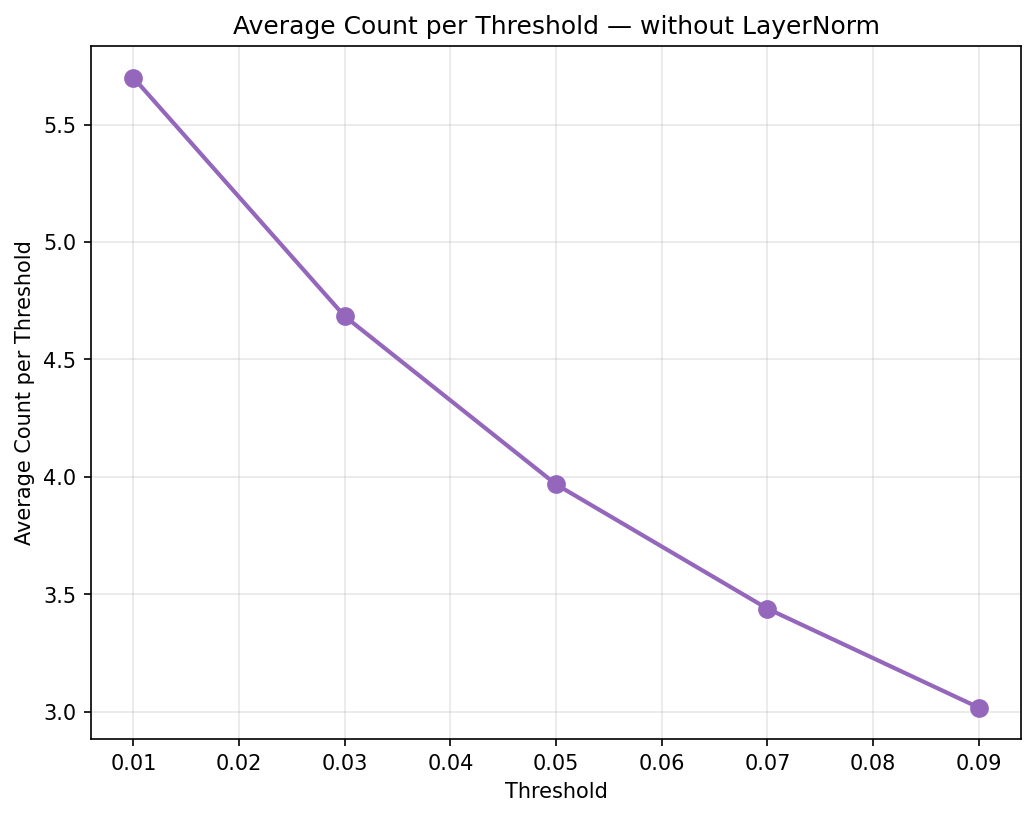
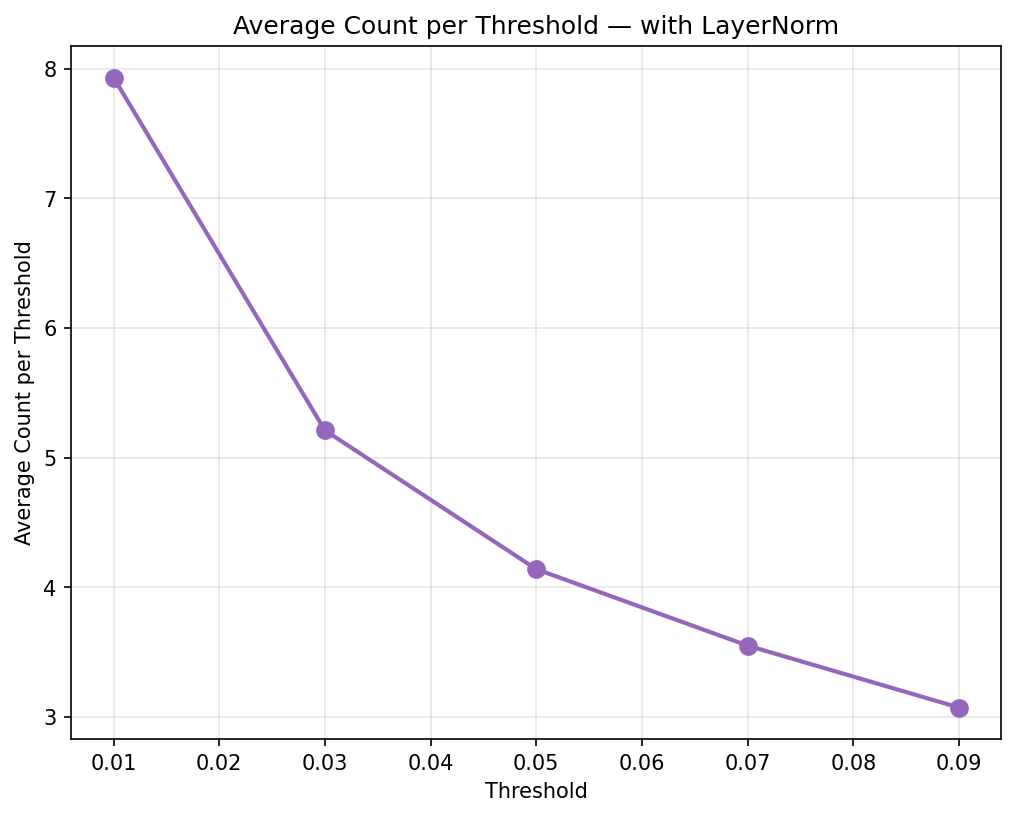
sdf

diff --git a/next_num_statistics.py b/next_num_statistics.py
@@ -1,26 +1,19 @@
-from model_tbyt_3 import GPT, GPTConfig
+from model_nathan import GPT, GPTConfig
 import torch
 import os
 import numpy as np
-#block_size = 8
-#vocab_size = 128
 block_size = 32
 vocab_size = 128
-instance_num = 1
 device = 'cuda'
-# Note: checkpoint was trained without positional embeddings (without_pos=True)
-config = GPTConfig(block_size=block_size, vocab_size=vocab_size, without_pos=True)
-model = GPT(config)
-#model_state_dict = torch.load(os.path.join(os.getcwd(), f'saved_models/tbyt_1head_2_itr:{itr_num}_checkpoint_old.pt'), map_location=device)['model']
-
-#model_state_dict = torch.load(os.path.join(os.getcwd(), f'saved_models/dec28_tbyt_without-pos-embedding_n_embd:64_1head_layers:2_vocab_size:128_itr:60000_checkpoint.pt'), map_location=device)['model']
-
-#model_state_dict = torch.load('./saved_models/tbyt_b64_v2048_embd16_1head_2_itr:20000_checkpoint.pt', map_location=device)['model']
 wlnorm = 'without'
-checkpoint_dirs = {'without': '2026-03-14_18-40-26_vocab128', 'with': '2026-03-14_19-03-50_vocab128'}
-model_state_dict = torch.load(f'./saved_models/{checkpoint_dirs[wlnorm]}/march14-{wlnorm}layernorm-block_size:32-batch_size:4096-n_embd:64_head:1_layers:2_vocab_size:128_itr:80000_checkpoint.pt', map_location=device)['model']
-model.load_state_dict(model_state_dict)
+nathan_checkpoints = {'without': 'sortgpt_k32_methfixed_mlp1_L2_N128_E64_pos0_fln0_wd0p0_seed1337__final.pt',
+                      'with': 'sortgpt_k32_methfixed_mlp1_L2_N128_E64_pos0_fln1_wd0p0_seed1337__final.pt'}
+checkpoint = torch.load(f'./saved_models/nathanmodels/{nathan_checkpoints[wlnorm]}', map_location=device, weights_only=False)
+config = GPTConfig(**checkpoint['model_config'])
+model = GPT(config)
+model.load_state_dict(checkpoint['model_state_dict'])
 model.to(device=device)
+model.eval()
 
 def get_batch(batch_size=1):
    def cat_sorted_tensor(x):
@@ -46,6 +39,7 @@ def get_statistics(thresholds, threshold_index):
     
     average_dist_perlocation = np.array([0.0 for i in range(block_size)])
     max_dist_perlocation = np.array([0.0 for i in range(block_size)])
+    random_prev_dist_perlocation = np.array([0.0 for i in range(block_size)])
     max_dist_perthreshold = []
     average_dist_perthreshold = []
     for t, threshold in enumerate(thresholds):
@@ -74,7 +68,7 @@ def get_statistics(thresholds, threshold_index):
             dist = 0.0
             num_dist = 0
             for k in range(0, 2*block_size + 1):
-                score = model.transformer.h[0].c_attn.attn[j,k].item()
+                score = model.transformer.h[0].attn.stored_attn[j,k].item()
                 if score >= threshold:
                     tmp_count_perlocation[j-block_size] += 1
                     dist = abs(idx[0,k] - idx[0,j + 1]).item()
@@ -90,7 +84,8 @@ def get_statistics(thresholds, threshold_index):
                     max_score_num = idx[0,k].item()
                     #print('max_score_num is ', max_score_num)
             average_max_dist += max_dist
-            average_temp_dist /= num_dist
+            if num_dist > 0:
+                average_temp_dist /= num_dist
             average_dist += average_temp_dist
             #print('max_score_num is ', max_score_num, ' idx[0,j + 1].item() is ', idx[0,j + 1].item())
             is_largest_score_correct[j-block_size] = (max_score_num == idx[0,j + 1].item())    
@@ -99,6 +94,9 @@ def get_statistics(thresholds, threshold_index):
                 count_perlocation[j-block_size] = tmp_count_perlocation[j-block_size]
                 average_dist_perlocation[j-block_size] = average_temp_dist
                 max_dist_perlocation[j-block_size] = max_dist
+                import random
+                rand_k = random.randint(0, j - 1)
+                random_prev_dist_perlocation[j-block_size] = abs(idx[0, rand_k].item() - idx[0, j + 1].item())
 
             if is_correct[j-block_size] == 1.0 and is_largest_score_correct[j-block_size] == True:
                 if t == threshold_index:
@@ -120,7 +118,7 @@ def get_statistics(thresholds, threshold_index):
             print(f'candidates for position {j} with number {idx[0,j].item()} and is_correct {is_correct[j-block_size] == 1.0} are {candidates[j-block_size]} \n \
                     is_largest_score_correct is {is_largest_score_correct[j-block_size]}\n')    
             if is_largest_score_correct[j-block_size] == False:
-                print(f'scores for position {j} are {[(num, model.transformer.h[0].c_attn.attn[j,k].item()) for k, num in candidates[j-block_size]]}\n\n\n')
+                print(f'scores for position {j} are {[(num, model.transformer.h[0].attn.stored_attn[j,k].item()) for k, num in candidates[j-block_size]]}\n\n\n')
 
         count_perthreshold.append(np.mean(tmp_count_perlocation))
 
@@ -140,7 +138,7 @@ def get_statistics(thresholds, threshold_index):
     iclogit_icscore_perthreshold = np.array(iclogit_icscore_perthreshold)
     average_dist_perthreshold = np.array(average_dist_perthreshold)
     max_dist_perthreshold = np.array(max_dist_perthreshold)
-    return count_perlocation, count_perthreshold, (clogit_cscore_perlocation, clogit_icscore_perlocation, iclogit_cscore_perlocation, iclogit_icscore_perlocation), (clogit_cscore_perthreshold, clogit_icscore_perthreshold, iclogit_cscore_perthreshold, iclogit_icscore_perthreshold), (average_dist_perlocation, max_dist_perlocation), (average_dist_perthreshold, max_dist_perthreshold)
+    return count_perlocation, count_perthreshold, (clogit_cscore_perlocation, clogit_icscore_perlocation, iclogit_cscore_perlocation, iclogit_icscore_perlocation), (clogit_cscore_perthreshold, clogit_icscore_perthreshold, iclogit_cscore_perthreshold, iclogit_icscore_perthreshold), (average_dist_perlocation, max_dist_perlocation, random_prev_dist_perlocation), (average_dist_perthreshold, max_dist_perthreshold)
 
 
 thresholds = [0.01, 0.03, 0.05, 0.07, 0.09]
@@ -156,12 +154,15 @@ ave_clogit_cscore_perlocation = np.zeros(block_size)
 ave_iclogit_cscore_perlocation = np.zeros(block_size)
 ave_clogit_icscore_perlocation = np.zeros(block_size)
 ave_iclogit_icscore_perlocation = np.zeros(block_size)
+ave_average_dist_perlocation = np.zeros(block_size)
+ave_max_dist_perlocation = np.zeros(block_size)
+ave_random_prev_dist_perlocation = np.zeros(block_size)
 for counter in range(num_tries):
     count_perlocation, count_perthreshold, lsperlocation, lsperthreshold, am_perlocation, am_perthreshold = get_statistics(thresholds, threshold_index)
     clogit_cscore_perthreshold, clogit_icscore_perthreshold, iclogit_cscore_perthreshold, iclogit_icscore_perthreshold = lsperthreshold
     average_dist_perthreshold, max_dist_perthreshold = am_perthreshold
     clogit_cscore_perlocation, clogit_icscore_perlocation, iclogit_cscore_perlocation, iclogit_icscore_perlocation = lsperlocation
-    average_dist_perlocation, max_dist_perlocation = am_perlocation
+    average_dist_perlocation, max_dist_perlocation, random_prev_dist_perlocation = am_perlocation
     
     ave_clogit_cscore_perthreshold += clogit_cscore_perthreshold
     ave_iclogit_cscore_perthreshold += iclogit_cscore_perthreshold
@@ -173,6 +174,9 @@ for counter in range(num_tries):
     ave_iclogit_cscore_perlocation += iclogit_cscore_perlocation
     ave_clogit_icscore_perlocation += clogit_icscore_perlocation
     ave_iclogit_icscore_perlocation += iclogit_icscore_perlocation
+    ave_average_dist_perlocation += average_dist_perlocation
+    ave_max_dist_perlocation += max_dist_perlocation
+    ave_random_prev_dist_perlocation += random_prev_dist_perlocation
 
 ave_clogit_cscore_perthreshold /= num_tries
 ave_iclogit_cscore_perthreshold /= num_tries
@@ -184,6 +188,9 @@ ave_clogit_cscore_perlocation /= num_tries
 ave_iclogit_cscore_perlocation /= num_tries
 ave_clogit_icscore_perlocation /= num_tries
 ave_iclogit_icscore_perlocation /= num_tries
+ave_average_dist_perlocation /= num_tries
+ave_max_dist_perlocation /= num_tries
+ave_random_prev_dist_perlocation /= num_tries
 
 # Save data to file for later comparison
 data_file = f'plots_{wlnorm}layernorm/statistics_data.npz'
@@ -199,7 +206,10 @@ np.savez(data_file,
          ave_clogit_cscore_perlocation=ave_clogit_cscore_perlocation,
          ave_iclogit_cscore_perlocation=ave_iclogit_cscore_perlocation,
          ave_clogit_icscore_perlocation=ave_clogit_icscore_perlocation,
-         ave_iclogit_icscore_perlocation=ave_iclogit_icscore_perlocation)
+         ave_iclogit_icscore_perlocation=ave_iclogit_icscore_perlocation,
+         ave_average_dist_perlocation=ave_average_dist_perlocation,
+         ave_max_dist_perlocation=ave_max_dist_perlocation,
+         ave_random_prev_dist_perlocation=ave_random_prev_dist_perlocation)
 print(f'Data saved to {data_file}')
 
 import matplotlib

diff --git a/results/attention_errors/attention_errors.tex b/results/attention_errors/attention_errors.tex
@@ -1,13 +1,13 @@
 % Requires: \usepackage{graphicx, subcaption}
 \begin{figure}[t]
   \centering
-  \begin{subfigure}[t]{0.48\textwidth}
+  \begin{subfigure}[t]{0.49\textwidth}
     \centering
     \includegraphics[width=\linewidth]{results/attention_errors/icscore_perlocation.png}
     \label{fig:icscore_perlocation}
-  \end{subfigure}
+  \end{subfigure}%
   \hfill
-  \begin{subfigure}[t]{0.48\textwidth}
+  \begin{subfigure}[t]{0.49\textwidth}
     \centering
     \includegraphics[width=\linewidth]{results/attention_errors/correction_fraction_withlayernorm.png}
     \label{fig:correction_fraction_withln}
